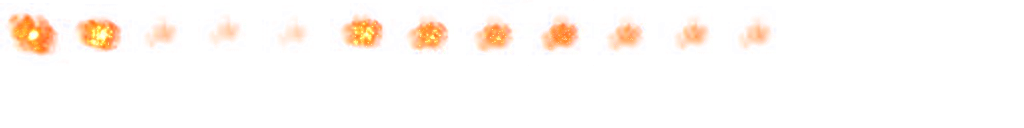
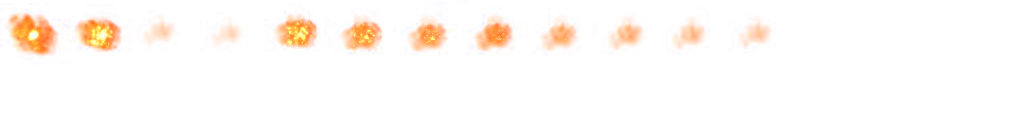
Robots now explode and are removed

diff --git a/robosport370/src/Views/mapView.java b/robosport370/src/Views/mapView.java
@@ -13,10 +13,12 @@ import com.badlogic.gdx.graphics.Color;
 import com.badlogic.gdx.graphics.GL20;
 import com.badlogic.gdx.graphics.OrthographicCamera;
 import com.badlogic.gdx.graphics.Texture;
+import com.badlogic.gdx.graphics.g2d.Animation;
 import com.badlogic.gdx.graphics.g2d.BitmapFont;
 import com.badlogic.gdx.graphics.g2d.Sprite;
 import com.badlogic.gdx.graphics.g2d.SpriteBatch;
 import com.badlogic.gdx.graphics.g2d.TextureAtlas;
+import com.badlogic.gdx.graphics.g2d.TextureRegion;
 import com.badlogic.gdx.scenes.scene2d.Event;
 import com.badlogic.gdx.scenes.scene2d.EventListener;
 import com.badlogic.gdx.scenes.scene2d.Stage;
@@ -64,6 +66,15 @@ public class mapView extends ScreenAdapter implements EventListener {
 
     private Texture projectileTexture;
     private Sprite projectile;
+    
+    // For our explosion animation
+    private Animation explosionAnimation;
+    private TextureAtlas explosionAtlas;
+    private TextureRegion[] explosionFrames;
+    private TextureRegion currentExplosionFrame;
+    private Sprite explosionPos;
+    
+    float stateTime;
 
     // Camera settings
     private int cameraWidth;
@@ -132,6 +143,21 @@ public class mapView extends ScreenAdapter implements EventListener {
         projectile = new Sprite(projectileTexture);
         projectile.setPosition(5000f, 5000f);
 
+        // Setting up the explosion animation        
+        explosionAtlas = new TextureAtlas(Gdx.files.internal("assets/explosion/explosion.pack"),Gdx.files.internal("assets/explosion/"));
+        explosionFrames = new TextureRegion[12];
+        
+        for(int i = 0; i < 12; i++) {
+        	explosionFrames[i] = explosionAtlas.createSprite("explosion", i);
+        }
+        
+        explosionAnimation = new Animation(0.025f, explosionFrames);
+        stateTime = 0f;
+        
+        explosionPos = new Sprite();
+        explosionPos.setX(5000f);
+        explosionPos.setY(5000f);
+        
         // Setting up the camera based on map size
         mapSize = gameVariables.mapSize; 
         mapDiameter = mapSize * 2 - 1;
@@ -143,7 +169,7 @@ public class mapView extends ScreenAdapter implements EventListener {
         cam.position.set(3 * sizeX * mapSize / 4, 5, 0);
         cam.update();
 
-        // Creates out robots
+        // Creates our robots
         this.teamList = new ArrayList<List<Sprite>>();
 
         Iterator<Team> it = teamsInMatch.iterator();
@@ -382,6 +408,7 @@ public class mapView extends ScreenAdapter implements EventListener {
         batch.begin();
         renderTiles();
         renderRobots();
+        renderExplosion();
         renderTesting();
         if(timelineTweenQueue.peek() != null) {
             if(timelineTweenQueue.peek().getTimeline().isFinished()) {
@@ -401,6 +428,12 @@ public class mapView extends ScreenAdapter implements EventListener {
         }
 
         stage.draw();
+    }
+    
+    public void renderExplosion() {
+    	stateTime += Gdx.graphics.getDeltaTime();
+    	currentExplosionFrame = explosionAnimation.getKeyFrame(stateTime, true);
+    	batch.draw(currentExplosionFrame, explosionPos.getX(), explosionPos.getY());
     }
 
     public void renderTesting() {
@@ -422,9 +455,6 @@ public class mapView extends ScreenAdapter implements EventListener {
         if(Gdx.input.isKeyJustPressed(Keys.NUM_6)) {
             moveRobot(1, 1, 6);
         }
-        if(Gdx.input.isKeyJustPressed(Keys.SPACE)) {
-            fireShot(1, 1, 3, 1);
-        }
     	if(Gdx.input.isKeyJustPressed(Keys.Q)) {
     		fireShot(1, 1, 1, 1);
     	}
@@ -442,6 +472,9 @@ public class mapView extends ScreenAdapter implements EventListener {
     	}
     	if(Gdx.input.isKeyJustPressed(Keys.D)) {
     		fireShot(1, 1, 13, 3);
+    	}
+    	if(Gdx.input.isKeyJustPressed(Keys.SPACE)) {
+    		destroyRobot(1, 1);
     	}
     }
 
@@ -557,7 +590,7 @@ public class mapView extends ScreenAdapter implements EventListener {
         if(direction == 4) {
             moveY = -sizeY;
         }
-        AudibleTimeline aTimeline = new AudibleTimeline();
+        AudibleTimeline aTimeline = new AudibleTimeline(this);
         aTimeline.setTimeline(Timeline.createSequence()
                 .push(Tween.to(teamList.get(1).get(1), SpriteAccessor.POSITION_XY, 0.5f).targetRelative(moveX, moveY)));
         timelineTweenQueue.add(aTimeline);
@@ -588,7 +621,7 @@ public class mapView extends ScreenAdapter implements EventListener {
     	xTranslate = (float) ((float) 1.1 * sizeX * range * Math.cos(theta) - 2);
     	yTranslate = (float) ((float) sizeY * range * Math.sin(theta) + 5);
     	
-    	AudibleTimeline aTimeline = new AudibleTimeline();
+    	AudibleTimeline aTimeline = new AudibleTimeline(this);
     	aTimeline.setProjectile(projectile);
     	aTimeline.setSource(teamList.get(team).get(robot));
     	Timeline t = Timeline.createSequence()
@@ -599,7 +632,25 @@ public class mapView extends ScreenAdapter implements EventListener {
     }
     
     public void destroyRobot(int team, int robot) {
-    	
+    	AudibleTimeline aTimeline = new AudibleTimeline(this);
+    	aTimeline.setSource(teamList.get(team).get(robot));
+    	aTimeline.setExplosion(explosionPos);
+    	Timeline t = Timeline.createSequence().delay(1f);
+    	aTimeline.setTimeline(t);
+    	timelineTweenQueue.add(aTimeline);
+    }
+    
+    public void setExplosionPosition(Float x, Float y) {
+    	explosionPos.setX(x);
+    	explosionPos.setY(y);
+    }
+    
+    public Float getExplosionXPos() {
+    	return explosionPos.getX();
+    }
+    
+    public Float getExplosionYPos() {
+    	return explosionPos.getY();
     }
 
     @Override

diff --git a/robosport370/src/Views/AudibleTimeline.java b/robosport370/src/Views/AudibleTimeline.java
@@ -1,6 +1,7 @@
 package Views;
 
 import com.badlogic.gdx.Gdx;
+import com.badlogic.gdx.ScreenAdapter;
 import com.badlogic.gdx.audio.Sound;
 import com.badlogic.gdx.graphics.g2d.Sprite;
 
@@ -14,18 +15,15 @@ public class AudibleTimeline {
 	private static Sound boom = Gdx.audio.newSound(Gdx.files.internal("assets/sound/explosion.wav"));
 	private Sprite projectile;
 	private Sprite source;
-	private boolean explosion;
+	private Sprite explosion;
+	private mapView mapView;
 	
-	public AudibleTimeline() {
-		explosion = false;
+	public AudibleTimeline(mapView mapView) {
+		this.mapView = mapView;
 	}
 	
-	public void setExplosionOn() {
-		explosion = true;
-	}
-	
-	public void setExplosionOff() {
-		explosion = false;
+	public void setExplosion(Sprite explosion) {
+		this.explosion = explosion;
 	}
 	
 	public void setSource(Sprite source) {
@@ -50,8 +48,10 @@ public class AudibleTimeline {
 			timeline.push(Tween.to(projectile, SpriteAccessor.POSITION_XY, 0f).target(5000, 5000));
 			laser.play(0.1f);
 		}
-		if(explosion) {
-			
+		if(explosion != null) {
+			explosion.setPosition(source.getX() - 13, source.getY() - 7);
+			timeline.push(Tween.to(explosion, SpriteAccessor.POSITION_XY, 0f).target(5000, 5000))
+				.push(Tween.to(source, SpriteAccessor.POSITION_XY, 0f).target(5000, 5000));
 			boom.play(0.1f);
 		}
 		timeline.start(tweenManager);

diff --git a/robosport370/src/Views/SpriteAccessor.java b/robosport370/src/Views/SpriteAccessor.java
@@ -5,17 +5,19 @@ import com.badlogic.gdx.graphics.g2d.Sprite;
 import aurelienribon.tweenengine.TweenAccessor;
 
 public class SpriteAccessor implements TweenAccessor<Sprite> {
-
+	public static final int FLOAT = 1;
 	public static final int POSITION_XY = 3;
 	
 	@Override
     public int getValues(Sprite target, int tweenType, float[] returnValues) {
         switch (tweenType) {
-            case POSITION_XY:
-                returnValues[0] = target.getX();
-                returnValues[1] = target.getY();
-                return 2;
-            default: assert false; return -1;
+        case FLOAT:
+        	
+    	case POSITION_XY:
+            returnValues[0] = target.getX();
+            returnValues[1] = target.getY();
+            return 2;
+        default: assert false; return -1;
         }
     }
     
@@ -28,5 +30,14 @@ public class SpriteAccessor implements TweenAccessor<Sprite> {
                 break;
             default: assert false; break;
         }
+    }
+    
+    public int getValues(Float target, int tweenType, float[] returnValues) {
+    	returnValues[0] = target.floatValue();
+    	return 1;
+    }
+    
+    public void setValues(Float target, int tweenType, float[] newValues) {
+    	target = newValues[0];
     }
 }
